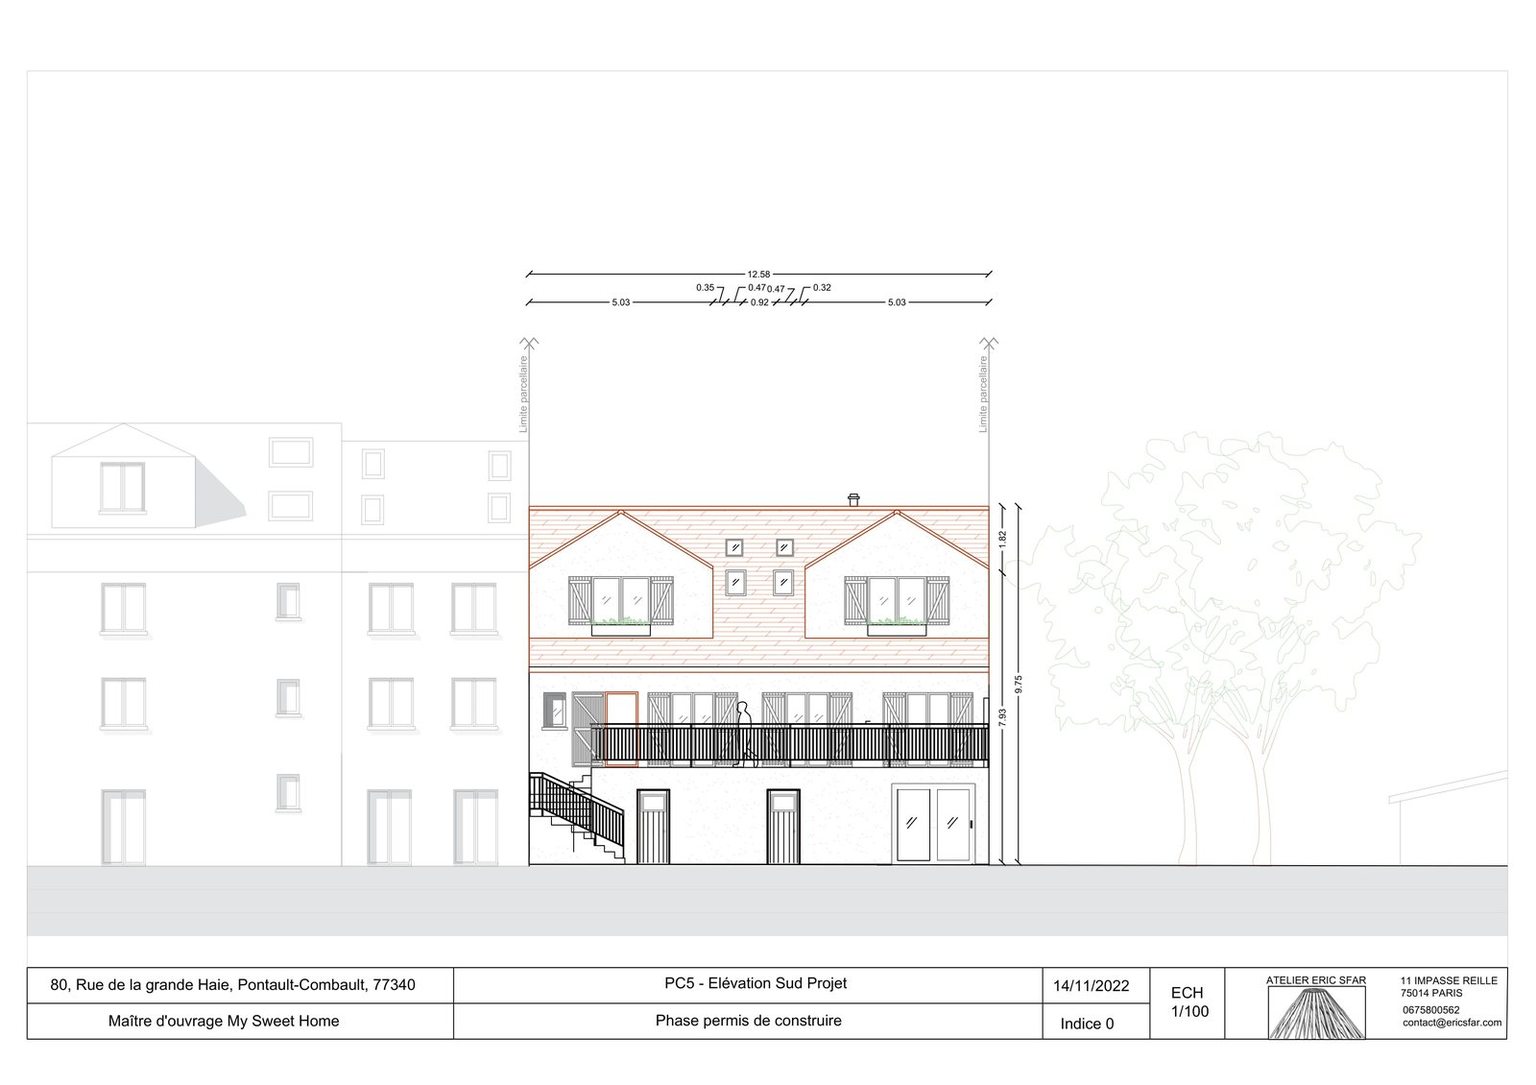
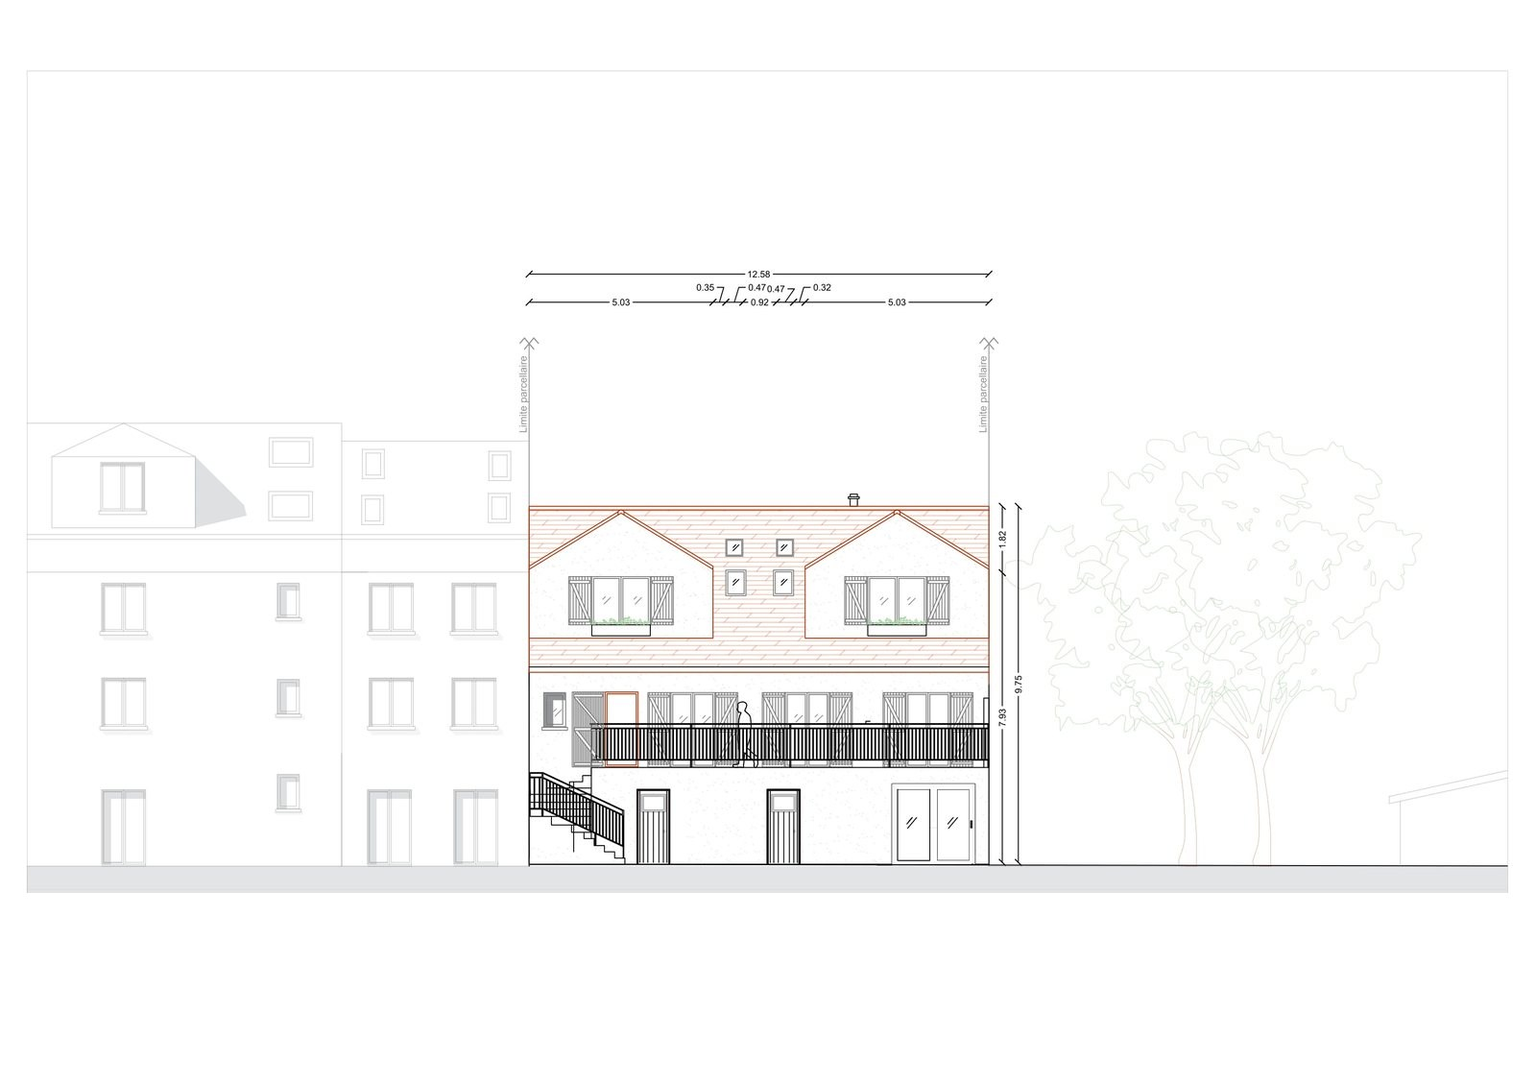
feat(portfolio,accueil): photos, profil, modelisation 3D SketchUp et masquage des cartouches

diff --git a/portfolio.html b/portfolio.html
@@ -37,12 +37,12 @@
 <main class="site-main" id="contenu">
   <h1>Portfolio CAO / DAO</h1>
   <p class="accroche">Planches de dessin technique réalisées sous AutoCAD lors d'un stage de deux mois chez un architecte indépendant, en fin de formation de dessinateur de projet (AFPA Paris 12).</p>
-  <p>Les documents produits pour la collectivité territoriale — patrimoine bâti municipal — sont confidentiels et ne sont pas publiés. Les planches présentées sont issues de ce stage ; elles ne comportent ni adresse ni donnée nominative.</p>
+  <p>Les documents produits pour la collectivité territoriale — patrimoine bâti municipal — restent confidentiels et ne sont pas publiés, à l'exception des deux relevés d'existant PH·01 et PH·02, diffusés avec autorisation. Les autres planches sont issues du stage ; elles ne comportent ni adresse ni donnée nominative.</p>
   <div class="bandeau-tech">
     <span class="badge">AutoCAD</span>
     <span class="badge">SketchUp</span>
     <span class="badge">Revit</span>
-    <span class="bandeau-tech-nb">26 planches</span>
+    <span class="bandeau-tech-nb">33 planches</span>
   </div>
   <h2 id="dessins-autocad" class="visually-hidden">Registre des planches</h2>
   <h2 id="captures-autocad">Captures d'écran AutoCAD</h2>
@@ -59,13 +59,13 @@
     <a class="plan" href="#vue-a09"><img src="assets/img/autocad-09.jpg" alt="Capture d'écran AutoCAD — stage, architecte indépendant (09)" loading="lazy" width="1016" height="507"><span class="plan-cartouche"><span class="plan-ref">PL·A09</span><span>AutoCAD</span></span></a>
   </div>
   <h2 id="releve-existant">Relevé d'existant</h2>
-  <p class="registre-legende">Relevés effectués sur site, reportés sous AutoCAD.</p>
+  <p class="registre-legende">Relevés d'existant effectués sur site. PL·A10 à PL·A12 : relevés réalisés par une entreprise externe. PH·01 et PH·02 : relevés réalisés personnellement pour la mise à jour d'un plan du patrimoine bâti municipal, diffusés avec autorisation.</p>
   <div class="registre">
-    <a class="plan" href="#vue-a10"><img src="assets/img/autocad-10.jpg" alt="Relevé d'existant — stage, architecte indépendant (10)" loading="lazy" width="876" height="702"><span class="plan-cartouche"><span class="plan-ref">PL·A10</span><span>Relevé</span></span></a>
-    <a class="plan" href="#vue-a11"><img src="assets/img/autocad-11.jpg" alt="Relevé d'existant — stage, architecte indépendant (11)" loading="lazy" width="791" height="782"><span class="plan-cartouche"><span class="plan-ref">PL·A11</span><span>Relevé</span></span></a>
-    <a class="plan" href="#vue-a12"><img src="assets/img/autocad-12.jpg" alt="Relevé d'existant — stage, architecte indépendant (12)" loading="lazy" width="777" height="733"><span class="plan-cartouche"><span class="plan-ref">PL·A12</span><span>Relevé</span></span></a>
-    <a class="plan" href="#vue-ph01"><img src="assets/img/releve-photo-01.jpg" alt="Relevé d'existant, photo — stage, architecte indépendant (01)" loading="lazy" width="1600" height="1200"><span class="plan-cartouche"><span class="plan-ref">PH·01</span><span>Relevé</span></span></a>
-    <a class="plan" href="#vue-ph02"><img src="assets/img/releve-photo-02.jpg" alt="Relevé d'existant, photo — stage, architecte indépendant (02)" loading="lazy" width="1200" height="1600"><span class="plan-cartouche"><span class="plan-ref">PH·02</span><span>Relevé</span></span></a>
+    <a class="plan" href="#vue-a10"><img src="assets/img/autocad-10.jpg" alt="Relevé d'existant réalisé par une entreprise externe (10)" loading="lazy" width="876" height="702"><span class="plan-cartouche"><span class="plan-ref">PL·A10</span><span>Relevé</span></span></a>
+    <a class="plan" href="#vue-a11"><img src="assets/img/autocad-11.jpg" alt="Relevé d'existant réalisé par une entreprise externe (11)" loading="lazy" width="791" height="782"><span class="plan-cartouche"><span class="plan-ref">PL·A11</span><span>Relevé</span></span></a>
+    <a class="plan" href="#vue-a12"><img src="assets/img/autocad-12.jpg" alt="Relevé d'existant réalisé par une entreprise externe (12)" loading="lazy" width="777" height="733"><span class="plan-cartouche"><span class="plan-ref">PL·A12</span><span>Relevé</span></span></a>
+    <a class="plan" href="#vue-ph01"><img src="assets/img/releve-photo-01.jpg" alt="Relevé d'existant — patrimoine bâti municipal, diffusé avec autorisation (01)" loading="lazy" width="1600" height="1200"><span class="plan-cartouche"><span class="plan-ref">PH·01</span><span>Relevé</span></span></a>
+    <a class="plan" href="#vue-ph02"><img src="assets/img/releve-photo-02.jpg" alt="Relevé d'existant — patrimoine bâti municipal, diffusé avec autorisation (02)" loading="lazy" width="1200" height="1600"><span class="plan-cartouche"><span class="plan-ref">PH·02</span><span>Relevé</span></span></a>
   </div>
   <h2 id="organisation-projet">Organisation du projet</h2>
   <p class="registre-legende">Projet rangé dans l'espace de travail AutoCAD : existant puis état projeté.</p>
@@ -95,6 +95,18 @@
     <a class="plan" href="#vue-rel03"><img src="assets/img/releve-03.jpg" alt="Présentation cotée, cartouche et échelle (03)" loading="lazy" width="1600" height="1130"><span class="plan-cartouche"><span class="plan-ref">REL·03</span><span>Présentation</span></span></a>
     <a class="plan" href="#vue-rel04"><img src="assets/img/releve-04.jpg" alt="Présentation cotée, cartouche et échelle (04)" loading="lazy" width="1600" height="1130"><span class="plan-cartouche"><span class="plan-ref">REL·04</span><span>Présentation</span></span></a>
   </div>
+  <h2 id="modelisation-3d">Modélisation 3D — SketchUp</h2>
+  <p class="registre-legende">Captures d'écran du logiciel SketchUp. Trois études : l'agencement intérieur d'une habitation ; la faisabilité d'un restaurant, liée au modèle Excel « L'Appartement » ; la circulation et la sécurité des personnes dans un restaurant de 180 m².</p>
+  <div class="registre">
+    <a class="plan" href="#vue-skp01"><img src="assets/img/skp-maison-01.jpg" alt="Modélisation 3D SketchUp — agencement d'une habitation (01)" loading="lazy" width="1061" height="749"><span class="plan-cartouche"><span class="plan-ref">SKP·01</span><span>Habitation</span></span></a>
+    <a class="plan" href="#vue-skp02"><img src="assets/img/skp-maison-02.jpg" alt="Modélisation 3D SketchUp — agencement d'une habitation (02)" loading="lazy" width="1515" height="801"><span class="plan-cartouche"><span class="plan-ref">SKP·02</span><span>Habitation</span></span></a>
+    <a class="plan" href="#vue-skp03"><img src="assets/img/skp-appartement-01.jpg" alt="Modélisation 3D SketchUp — faisabilité d'un restaurant (01)" loading="lazy" width="1517" height="799"><span class="plan-cartouche"><span class="plan-ref">SKP·03</span><span>Faisabilité</span></span></a>
+    <a class="plan" href="#vue-skp04"><img src="assets/img/skp-appartement-02.jpg" alt="Modélisation 3D SketchUp — faisabilité d'un restaurant (02)" loading="lazy" width="1163" height="739"><span class="plan-cartouche"><span class="plan-ref">SKP·04</span><span>Faisabilité</span></span></a>
+    <a class="plan" href="#vue-skp05"><img src="assets/img/skp-appartement-03.jpg" alt="Modélisation 3D SketchUp — faisabilité d'un restaurant (03)" loading="lazy" width="1458" height="737"><span class="plan-cartouche"><span class="plan-ref">SKP·05</span><span>Faisabilité</span></span></a>
+    <a class="plan" href="#vue-skp06"><img src="assets/img/skp-appartement-04.jpg" alt="Modélisation 3D SketchUp — faisabilité d'un restaurant (04)" loading="lazy" width="1424" height="743"><span class="plan-cartouche"><span class="plan-ref">SKP·06</span><span>Faisabilité</span></span></a>
+    <a class="plan" href="#vue-skp07"><img src="assets/img/skp-restaurant-180m2.jpg" alt="Modélisation 3D SketchUp — circulation dans un restaurant de 180 m²" loading="lazy" width="1506" height="789"><span class="plan-cartouche"><span class="plan-ref">SKP·07</span><span>Circulation</span></span></a>
+  </div>
+  <p>Les captures de faisabilité du restaurant sont liées au modèle de chiffrage <a href="excel-modele-03-investissement.html">L'Appartement — estimation d'investissement et financement</a>.</p>
   <h2 id="ce-que-cela-demontre">Ce que cela démontre</h2>
   <p>Aisance dans l'interface AutoCAD : calques, gabarits, cotation et habillage de plan. Lecture et production de plans techniques — relevés, plans de niveau, coupes et élévations. Rigueur documentaire et sens du détail, du relevé sur site au rendu final coté.</p>
   <div class="cta">
@@ -184,40 +196,40 @@
   <div class="visionneuse" id="vue-a10" role="dialog" aria-modal="true" aria-label="PL·A10">
     <a class="visionneuse-fond" href="#dessins-autocad" aria-label="Fermer l'aperçu"></a>
     <figure class="visionneuse-boite">
-      <img src="assets/img/autocad-10.jpg" alt="Relevé d'existant — stage, architecte indépendant (10)">
-      <figcaption>PL·A10 — Relevé d'existant</figcaption>
+      <img src="assets/img/autocad-10.jpg" alt="Relevé d'existant réalisé par une entreprise externe (10)">
+      <figcaption>PL·A10 — Relevé d'existant — entreprise externe</figcaption>
     </figure>
     <a class="visionneuse-fermer" href="#dessins-autocad" aria-label="Fermer l'aperçu">✕</a>
   </div>
   <div class="visionneuse" id="vue-a11" role="dialog" aria-modal="true" aria-label="PL·A11">
     <a class="visionneuse-fond" href="#dessins-autocad" aria-label="Fermer l'aperçu"></a>
     <figure class="visionneuse-boite">
-      <img src="assets/img/autocad-11.jpg" alt="Relevé d'existant — stage, architecte indépendant (11)">
-      <figcaption>PL·A11 — Relevé d'existant</figcaption>
+      <img src="assets/img/autocad-11.jpg" alt="Relevé d'existant réalisé par une entreprise externe (11)">
+      <figcaption>PL·A11 — Relevé d'existant — entreprise externe</figcaption>
     </figure>
     <a class="visionneuse-fermer" href="#dessins-autocad" aria-label="Fermer l'aperçu">✕</a>
   </div>
   <div class="visionneuse" id="vue-a12" role="dialog" aria-modal="true" aria-label="PL·A12">
     <a class="visionneuse-fond" href="#dessins-autocad" aria-label="Fermer l'aperçu"></a>
     <figure class="visionneuse-boite">
-      <img src="assets/img/autocad-12.jpg" alt="Relevé d'existant — stage, architecte indépendant (12)">
-      <figcaption>PL·A12 — Relevé d'existant</figcaption>
+      <img src="assets/img/autocad-12.jpg" alt="Relevé d'existant réalisé par une entreprise externe (12)">
+      <figcaption>PL·A12 — Relevé d'existant — entreprise externe</figcaption>
     </figure>
     <a class="visionneuse-fermer" href="#dessins-autocad" aria-label="Fermer l'aperçu">✕</a>
   </div>
   <div class="visionneuse" id="vue-ph01" role="dialog" aria-modal="true" aria-label="PH·01">
     <a class="visionneuse-fond" href="#dessins-autocad" aria-label="Fermer l'aperçu"></a>
     <figure class="visionneuse-boite">
-      <img src="assets/img/releve-photo-01.jpg" alt="Relevé d'existant, photo — stage, architecte indépendant (01)">
-      <figcaption>PH·01 — Relevé d'existant (photo)</figcaption>
+      <img src="assets/img/releve-photo-01.jpg" alt="Relevé d'existant — patrimoine bâti municipal, diffusé avec autorisation (01)">
+      <figcaption>PH·01 — Relevé d'existant — patrimoine bâti municipal (diffusé avec autorisation)</figcaption>
     </figure>
     <a class="visionneuse-fermer" href="#dessins-autocad" aria-label="Fermer l'aperçu">✕</a>
   </div>
   <div class="visionneuse" id="vue-ph02" role="dialog" aria-modal="true" aria-label="PH·02">
     <a class="visionneuse-fond" href="#dessins-autocad" aria-label="Fermer l'aperçu"></a>
     <figure class="visionneuse-boite">
-      <img src="assets/img/releve-photo-02.jpg" alt="Relevé d'existant, photo — stage, architecte indépendant (02)">
-      <figcaption>PH·02 — Relevé d'existant (photo)</figcaption>
+      <img src="assets/img/releve-photo-02.jpg" alt="Relevé d'existant — patrimoine bâti municipal, diffusé avec autorisation (02)">
+      <figcaption>PH·02 — Relevé d'existant — patrimoine bâti municipal (diffusé avec autorisation)</figcaption>
     </figure>
     <a class="visionneuse-fermer" href="#dessins-autocad" aria-label="Fermer l'aperçu">✕</a>
   </div>
@@ -314,6 +326,62 @@
     <figure class="visionneuse-boite">
       <img src="assets/img/releve-04.jpg" alt="Présentation cotée, cartouche et échelle (04)">
       <figcaption>REL·04 — Présentation cotée — cartouche et échelle</figcaption>
+    </figure>
+    <a class="visionneuse-fermer" href="#dessins-autocad" aria-label="Fermer l'aperçu">✕</a>
+  </div>
+  <div class="visionneuse" id="vue-skp01" role="dialog" aria-modal="true" aria-label="SKP·01">
+    <a class="visionneuse-fond" href="#dessins-autocad" aria-label="Fermer l'aperçu"></a>
+    <figure class="visionneuse-boite">
+      <img src="assets/img/skp-maison-01.jpg" alt="Modélisation 3D SketchUp — agencement d'une habitation (01)">
+      <figcaption>SKP·01 — Habitation — agencement intérieur (SketchUp)</figcaption>
+    </figure>
+    <a class="visionneuse-fermer" href="#dessins-autocad" aria-label="Fermer l'aperçu">✕</a>
+  </div>
+  <div class="visionneuse" id="vue-skp02" role="dialog" aria-modal="true" aria-label="SKP·02">
+    <a class="visionneuse-fond" href="#dessins-autocad" aria-label="Fermer l'aperçu"></a>
+    <figure class="visionneuse-boite">
+      <img src="assets/img/skp-maison-02.jpg" alt="Modélisation 3D SketchUp — agencement d'une habitation (02)">
+      <figcaption>SKP·02 — Habitation — agencement intérieur (SketchUp)</figcaption>
+    </figure>
+    <a class="visionneuse-fermer" href="#dessins-autocad" aria-label="Fermer l'aperçu">✕</a>
+  </div>
+  <div class="visionneuse" id="vue-skp03" role="dialog" aria-modal="true" aria-label="SKP·03">
+    <a class="visionneuse-fond" href="#dessins-autocad" aria-label="Fermer l'aperçu"></a>
+    <figure class="visionneuse-boite">
+      <img src="assets/img/skp-appartement-01.jpg" alt="Modélisation 3D SketchUp — faisabilité d'un restaurant (01)">
+      <figcaption>SKP·03 — Restaurant « L'Appartement » — étude de faisabilité (SketchUp)</figcaption>
+    </figure>
+    <a class="visionneuse-fermer" href="#dessins-autocad" aria-label="Fermer l'aperçu">✕</a>
+  </div>
+  <div class="visionneuse" id="vue-skp04" role="dialog" aria-modal="true" aria-label="SKP·04">
+    <a class="visionneuse-fond" href="#dessins-autocad" aria-label="Fermer l'aperçu"></a>
+    <figure class="visionneuse-boite">
+      <img src="assets/img/skp-appartement-02.jpg" alt="Modélisation 3D SketchUp — faisabilité d'un restaurant (02)">
+      <figcaption>SKP·04 — Restaurant « L'Appartement » — étude de faisabilité (SketchUp)</figcaption>
+    </figure>
+    <a class="visionneuse-fermer" href="#dessins-autocad" aria-label="Fermer l'aperçu">✕</a>
+  </div>
+  <div class="visionneuse" id="vue-skp05" role="dialog" aria-modal="true" aria-label="SKP·05">
+    <a class="visionneuse-fond" href="#dessins-autocad" aria-label="Fermer l'aperçu"></a>
+    <figure class="visionneuse-boite">
+      <img src="assets/img/skp-appartement-03.jpg" alt="Modélisation 3D SketchUp — faisabilité d'un restaurant (03)">
+      <figcaption>SKP·05 — Restaurant « L'Appartement » — étude de faisabilité (SketchUp)</figcaption>
+    </figure>
+    <a class="visionneuse-fermer" href="#dessins-autocad" aria-label="Fermer l'aperçu">✕</a>
+  </div>
+  <div class="visionneuse" id="vue-skp06" role="dialog" aria-modal="true" aria-label="SKP·06">
+    <a class="visionneuse-fond" href="#dessins-autocad" aria-label="Fermer l'aperçu"></a>
+    <figure class="visionneuse-boite">
+      <img src="assets/img/skp-appartement-04.jpg" alt="Modélisation 3D SketchUp — faisabilité d'un restaurant (04)">
+      <figcaption>SKP·06 — Restaurant « L'Appartement » — étude de faisabilité (SketchUp)</figcaption>
+    </figure>
+    <a class="visionneuse-fermer" href="#dessins-autocad" aria-label="Fermer l'aperçu">✕</a>
+  </div>
+  <div class="visionneuse" id="vue-skp07" role="dialog" aria-modal="true" aria-label="SKP·07">
+    <a class="visionneuse-fond" href="#dessins-autocad" aria-label="Fermer l'aperçu"></a>
+    <figure class="visionneuse-boite">
+      <img src="assets/img/skp-restaurant-180m2.jpg" alt="Modélisation 3D SketchUp — circulation dans un restaurant de 180 m²">
+      <figcaption>SKP·07 — Restaurant 180 m² — circulation et sécurité (SketchUp)</figcaption>
     </figure>
     <a class="visionneuse-fermer" href="#dessins-autocad" aria-label="Fermer l'aperçu">✕</a>
   </div>

diff --git a/index.html b/index.html
@@ -35,8 +35,13 @@
   </nav>
 </aside>
 <main class="site-main" id="contenu">
+  <figure class="photo-profil">
+    <img src="assets/img/photo-profil.jpg" alt="Portrait" width="478" height="480">
+  </figure>
   <h1>Dessinateur projeteur bâtiment — CAO / DAO</h1>
   <p class="accroche">Volpe Calogero — dessin technique, lecture de plans et mise à jour de patrimoine bâti. AutoCAD, Revit, SketchUp.</p>
+  <p>Dessinateur projeteur formé aux outils de CAO (AutoCAD, Revit, SketchUp) et à la lecture de plans techniques et d'exécution. Un an et demi en collectivité territoriale comme référent des plans d'un parc de 400 équipements, avec mise à jour de 30 bâtiments après relevé d'existant. Formation initiale de six ans en école d'art. Rigueur procédurale et culture du document.</p>
+  <p class="cta"><a class="btn" href="parcours.html">Voir le parcours complet</a></p>
 
   <div class="cartouche">
     <div class="cartouche-ligne"><span class="cartouche-cle">Profil</span><span class="cartouche-val">Dessinateur projeteur — CAO / DAO</span></div>

diff --git a/parcours.html b/parcours.html
@@ -39,6 +39,9 @@
   <p class="accroche">Dessinateur projeteur bâtiment — CAO / DAO. Formation intensive d'un an (AFPA), stage en agence, expérience en collectivité territoriale.</p>
 
   <h2>Profil</h2>
+  <figure class="photo-profil">
+    <img src="assets/img/photo-profil.jpg" alt="Portrait" width="478" height="480">
+  </figure>
   <p>Dessinateur projeteur formé aux outils de CAO (AutoCAD, Revit, SketchUp) et à la lecture de plans techniques et d'exécution. Un an et demi en collectivité territoriale comme référent des plans d'un parc de 400 équipements, avec mise à jour de 30 bâtiments après relevé d'existant. Formation initiale de six ans en école d'art. Rigueur procédurale et culture du document.</p>
 
   <h2>Compétences techniques</h2>

diff --git a/memory-bank/activeContext.md b/memory-bank/activeContext.md
@@ -5,13 +5,19 @@ Dépôt : calogerovolpe/mes-realisations-batiments — branche main, GitHub Page
 URL : https://calogerovolpe.github.io/mes-realisations-batiments/
 
 État : Jalon 3 (Excel « chiffrage / quantification » + finitions) réalisé — les trois jalons de la version CAO/DAO sont clos.
-- Portfolio : 26 planches en 6 groupes — captures d'écran AutoCAD (A01-A09), relevé
-  d'existant (A10-A12 + 2 photos), organisation du projet (A13), plan projet coté
-  (A14-A17 et A20), projet de cabanon (A18-A19), présentations cartouche et échelle
-  (REL·01-04). Chaque planche ouvre un aperçu agrandi (.visionneuse, CSS :target) ;
-  le module viewer.js ajoute la navigation à la molette et au clavier, et les boutons
-  précédent / suivant. Images : autocad-01..20.jpg, releve-01..04.jpg,
-  releve-photo-01..02.jpg (< 300 Ko).
+- Portfolio : 33 planches en 7 groupes — captures d'écran AutoCAD (A01-A09) ;
+  relevé d'existant (A10-A12 réalisés par une entreprise externe + PH·01-PH·02
+  réalisés personnellement pour le patrimoine bâti municipal, diffusés avec
+  autorisation) ; organisation du projet (A13) ; plan projet coté (A14-A17 et A20) ;
+  projet de cabanon (A18-A19) ; présentations cartouche et échelle (REL·01-04,
+  cartouches — nom d'entreprise et adresse — masqués) ; modélisation 3D SketchUp
+  (SKP·01-07 : habitation, « L'Appartement » lié au modèle Excel 03, restaurant
+  180 m²). Chaque planche ouvre un aperçu agrandi (.visionneuse, CSS :target) ; le
+  module viewer.js ajoute la navigation à la molette et au clavier. Images :
+  autocad-01..20.jpg, releve-01..04.jpg, releve-photo-01..02.jpg, skp-*.jpg
+  (< 300 Ko).
+- Accueil : photo (assets/img/photo-profil.jpg, alt neutre) en tête, texte « Profil »
+  repris du CV et bouton vers parcours.html.
 - Parcours : réécrit depuis le CV /docs/BAT — profil dessinateur projeteur CAO/DAO,
   compétences techniques (.spec) incluant les notions de BIM et l'usage d'un logiciel
   SIG professionnel, frise (chrono) formations + expériences, fenêtres de détail,
@@ -22,7 +28,8 @@ URL : https://calogerovolpe.github.io/mes-realisations-batiments/
   (.chrono-demenagement + légende « Mobilité personnelle »). Section « Diplômes et
   certifications » : diplôme Bac pro et attestation de compétence AFPA (dessinateur
   projeteur), chacun affiché en pop-up (.visionneuse) — images assets/img/
-  diplome-bac-pro.jpg et attestation-competence-afpa.jpg (< 300 Ko).
+  diplome-bac-pro.jpg et attestation-competence-afpa.jpg (< 300 Ko, remise en
+  portrait). Une photo (photo-profil.jpg) est affichée en tête de la section Profil.
 - Thème « plan technique » et navigation (Accueil · Portfolio · Excel · Parcours ·
   Contact) du Jalon 1 conservés ; sections Business plans et Identité visuelle supprimées.
 - Excel (Jalon 3) : excel.html et les trois modèles recentrés « chiffrage et
@@ -34,7 +41,7 @@ Décisions verrouillées
 - L'architecte du stage n'est jamais nommé : écrire « architecte indépendant ».
 - Un seul e-mail : bx.volpe@gmail.com. Aucun numéro de téléphone, aucune adresse.
 - « Guignies, zone frontalière Lille » (pas de code postal).
-- Montreuil : décrit en texte, jamais d'image.
+- Montreuil : décrit en texte ; seuls PH·01 et PH·02 (relevés diffusés avec autorisation) sont publiés, aucun autre visuel.
 
 Points ouverts
 - contact.html : le formulaire pointe vers Formspree ; l'identifiant (f/…) reste à

diff --git a/memory-bank/progress.md b/memory-bank/progress.md
@@ -22,6 +22,14 @@ Version CAO/DAO — 3 jalons, un jalon = une conversation = un commit.
       à l'AFPA pour devenir dessinateur projeteur) ; section « Diplômes et certifications »
       avec diplôme Bac pro et attestation de compétence AFPA affichés en pop-up.
 
+- [x] Complément portfolio & accueil (hors jalon) : photo (photo-profil.jpg) ajoutée à
+      l'accueil et au parcours ; texte « Profil » du CV et bouton vers le parcours sur
+      l'accueil ; légendes A10-A12 (entreprise externe) et PH·01-PH·02 (Montreuil, diffusés
+      avec autorisation) ; nouveau groupe « Modélisation 3D — SketchUp » (SKP·01-07 :
+      habitation, L'Appartement lié au modèle Excel 03, restaurant 180 m²) ; cartouches des
+      présentations REL·01-04 masqués ; attestation AFPA remise en portrait. Règle 02 mise
+      à jour (exception PH·01/PH·02).
+
 ## Rappel de fin de jalon
 git add . → git commit → git push origin main → git status propre → page vérifiée en
 ligne → memory-bank mis à jour et poussé → recherche des noms interdits.
